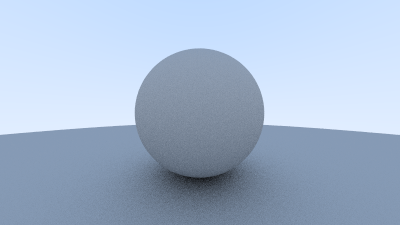
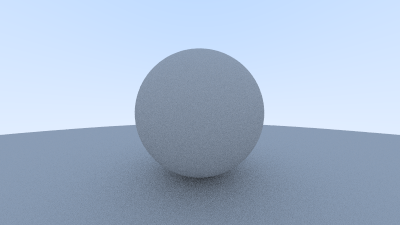
Diffuse Materials

Changed region(s): [[0.39, 0.7467, 0.6, 0.9022]]

diff --git a/src/main.rs b/src/main.rs
@@ -17,7 +17,7 @@ fn ray_color(r: &Ray, world: &World, depth: u64) -> Color {
     }
 
     if let Some(rec) = world.hit(r, 0.001, f64::INFINITY) {
-        let target = rec.p + rec.normal + Vec3::random_in_unit_sphere();
+        let target = rec.p + rec.normal + Vec3::random_in_unit_sphere().normalized();
         let r = Ray::new(rec.p, target - rec.p);
         0.5 * ray_color(&r, world, depth - 1)
     } else {

diff --git a/src/vec.rs b/src/vec.rs
@@ -78,6 +78,15 @@ impl Vec3 {
             }
         }
     }
+
+    pub fn random_in_hemisphere(normal: Vec3) -> Vec3 {
+        let in_unit_sphere = Self::random_in_unit_sphere();
+        if in_unit_sphere.dot(normal) > 0.0 {
+            in_unit_sphere
+        } else {
+            (-1.0) * in_unit_sphere
+        }
+    }
 }
 
 impl Index<usize> for Vec3 {
